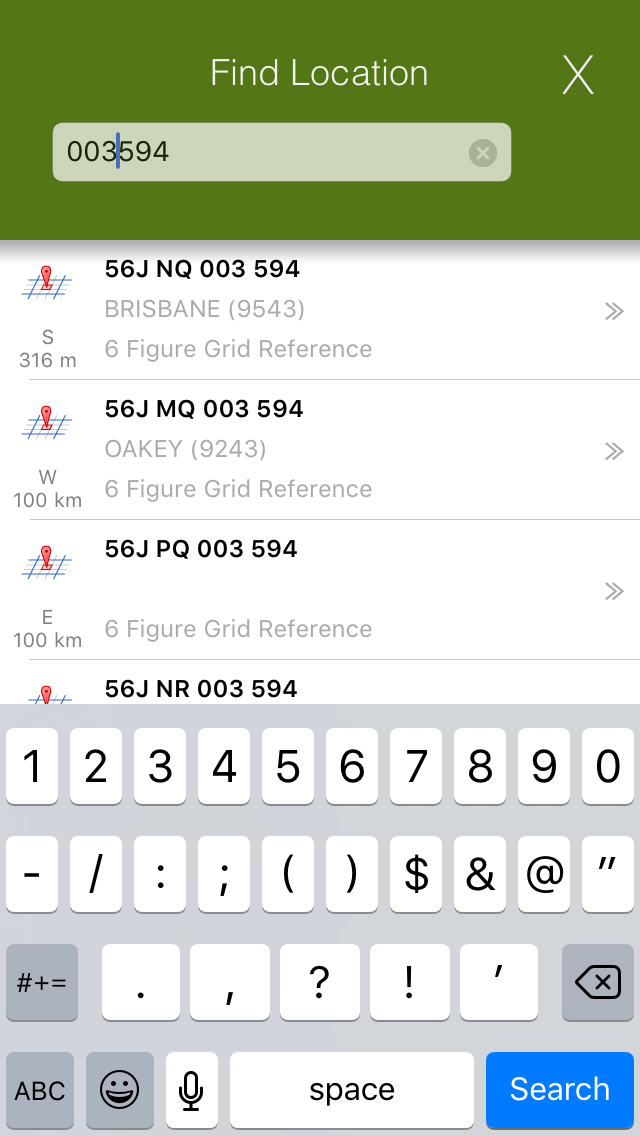
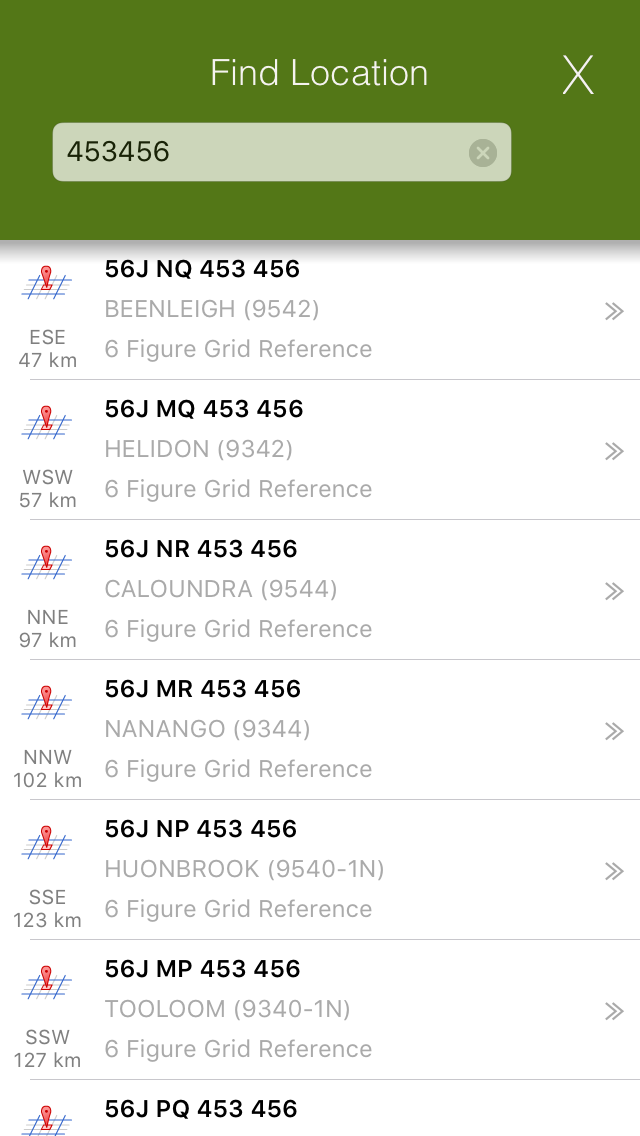
small changes

diff --git a/find_location.rst b/find_location.rst
@@ -18,6 +18,9 @@ Address
 
 .. image:: symbols/nameRef.png
   :width: 60px
+  
+.. image:: screenshots/search2.png
+  :width: 100px
 
 Four Figure Grid Reference
 --------------------------
@@ -40,7 +43,9 @@ Six Figure Grid Reference
 -------------------------
 
 Returns a list of the nearby matching six figure grid reference locations based on the users current location.
-A six figure grid reference has a medium accuracy of 100m by 100m.
+A six figure grid reference has a medium accuracy of 100m by 100m. Six figure reference are ideal for describing nearby locations. 
+
+These references repeat on the earth surface every 100km and can not be used to describe a unique location on a world scale.
 
 * 342492
 * 342 492
@@ -52,6 +57,10 @@ A six figure grid reference has a medium accuracy of 100m by 100m.
   
 .. note::
  The grid reference search requires your current location in order to display matching grid references near your location.
+  
+.. image:: screenshots/search1.png
+  :width: 100px
+  
   
 Fourteen Figure Grid Reference
 ------------------------------
@@ -137,11 +146,3 @@ A UTM reference has a high accuracy of 1m x 1m.
   :width: 60px
   
   
-.. image:: screenshots/search1.png
-  :width: 100px
-  
-.. image:: screenshots/search2.png
-  :width: 100px
-  
-.. image:: screenshots/search3.png
-  :width: 100px

diff --git a/gps_camera.rst b/gps_camera.rst
@@ -8,10 +8,10 @@ and add them directly to the map.
 The location and direction of the photo is automatically displayed on the map. 
 FireMapper uses the internal GPS and internal compass to determine the direction and location of the photo.
 
-.. image /symbols/gps_photo.png
+.. image:: /symbols/gps_photo.png
   :width: 300px 
 
-.. image /symbols/photo.png
+.. image:: /symbols/photo.png
   :width: 50px 
   :height: 50px
   
